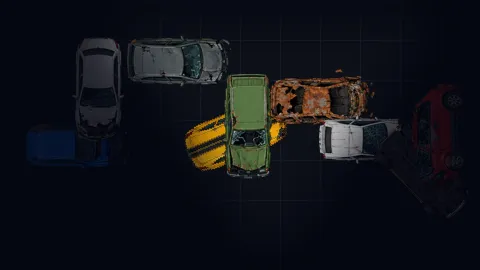
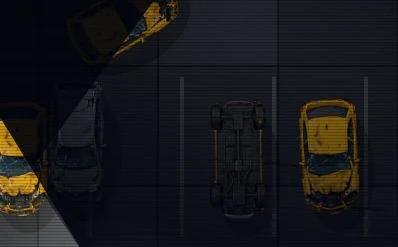
Map select: use Map1/Map2 pictures for Neon Yard and Wreck Garage, preloaded when the game page opens

diff --git a/src/routes/index.tsx b/src/routes/index.tsx
@@ -76,6 +76,7 @@ import {
 } from "@/game/wrecks";
 import { drawNight, newStorm, stepStorm, type Storm } from "@/game/night";
 import garageThumb from "@/assets/wrecks/map_garage.webp";
+import yardThumb from "@/assets/wrecks/map_yard.webp";
 import { enterLandscape, useControlPrefs, useDevice } from "@/game/device";
 import { ControlSettings, RotateOverlay, TouchControls, type Joy } from "@/game/TouchControls";
 
@@ -538,6 +539,15 @@ function ArenaGame() {
   selectedRef.current = selected;
   const startRef = useRef<() => void>(() => {});
   const [mapSel, setMapSel] = useState<MapKind>("yard");
+  /* load both map pictures as soon as the game page opens, so the map cards never show up blank */
+  useEffect(() => {
+    const pre = [yardThumb, garageThumb].map((src) => {
+      const im = new Image();
+      im.src = src;
+      return im;
+    });
+    return () => void pre.length;
+  }, []);
   const mapSelRef = useRef<MapKind>("yard");
   mapSelRef.current = mapSel;
   applyTeamLook(mapSel);
@@ -3276,9 +3286,9 @@ function ArenaGame() {
                 <div className="map-pick" role="radiogroup" aria-label="Map">
                   {(
                     [
-                      ["yard", "NEON YARD", null],
+                      ["yard", "NEON YARD", yardThumb],
                       ["garage", "WRECK GARAGE", garageThumb],
-                    ] as [MapKind, string, string | null][]
+                    ] as [MapKind, string, string][]
                   ).map(([id, name, img]) => (
                     <button
                       key={id}
@@ -3288,10 +3298,7 @@ function ArenaGame() {
                       className={`map-card${mapSel === id ? " on" : ""}`}
                       onClick={() => setMapSel(id)}
                     >
-                      <span
-                        className={`map-thumb thumb-${id}`}
-                        style={img ? { backgroundImage: `url(${img})` } : undefined}
-                      />
+                      <img className="map-thumb" src={img} alt={name} width={518} height={292} />
                       <span className="map-name">{name}</span>
                     </button>
                   ))}

diff --git a/src/styles.css b/src/styles.css
@@ -653,9 +653,7 @@ html, body { overscroll-behavior: none; }
 .map-pick { display: flex; gap: 10px; width: 100%; margin-bottom: 10px; }
 .map-card { flex: 1; background: #120a2a; border: 3px solid #3a2a6a; padding: 6px; cursor: pointer; color: #fff; font-family: inherit; }
 .map-card.on { border-color: #ffe23d; box-shadow: 0 0 0 2px #000, 0 0 14px rgba(255, 226, 61, 0.5); }
-.map-thumb { display: block; width: 100%; aspect-ratio: 16 / 9; background-size: cover; background-position: center; image-rendering: auto; }
-.map-thumb.thumb-yard { background: linear-gradient(135deg, #3a3e48, #4a5060 60%, #2a2d36); position: relative; }
-.map-thumb.thumb-yard::after { content: ""; position: absolute; inset: 22% 18% 30% 30%; background: #c4572b; box-shadow: 46px 20px 0 -6px #2b6cc4; }
+.map-thumb { display: block; width: 100%; height: auto; aspect-ratio: 16 / 9; object-fit: cover; }
 .map-name { display: block; margin-top: 6px; font-size: 9px; letter-spacing: 1px; }
 
 /* Wreck Garage TDM: Green vs Yellow */
